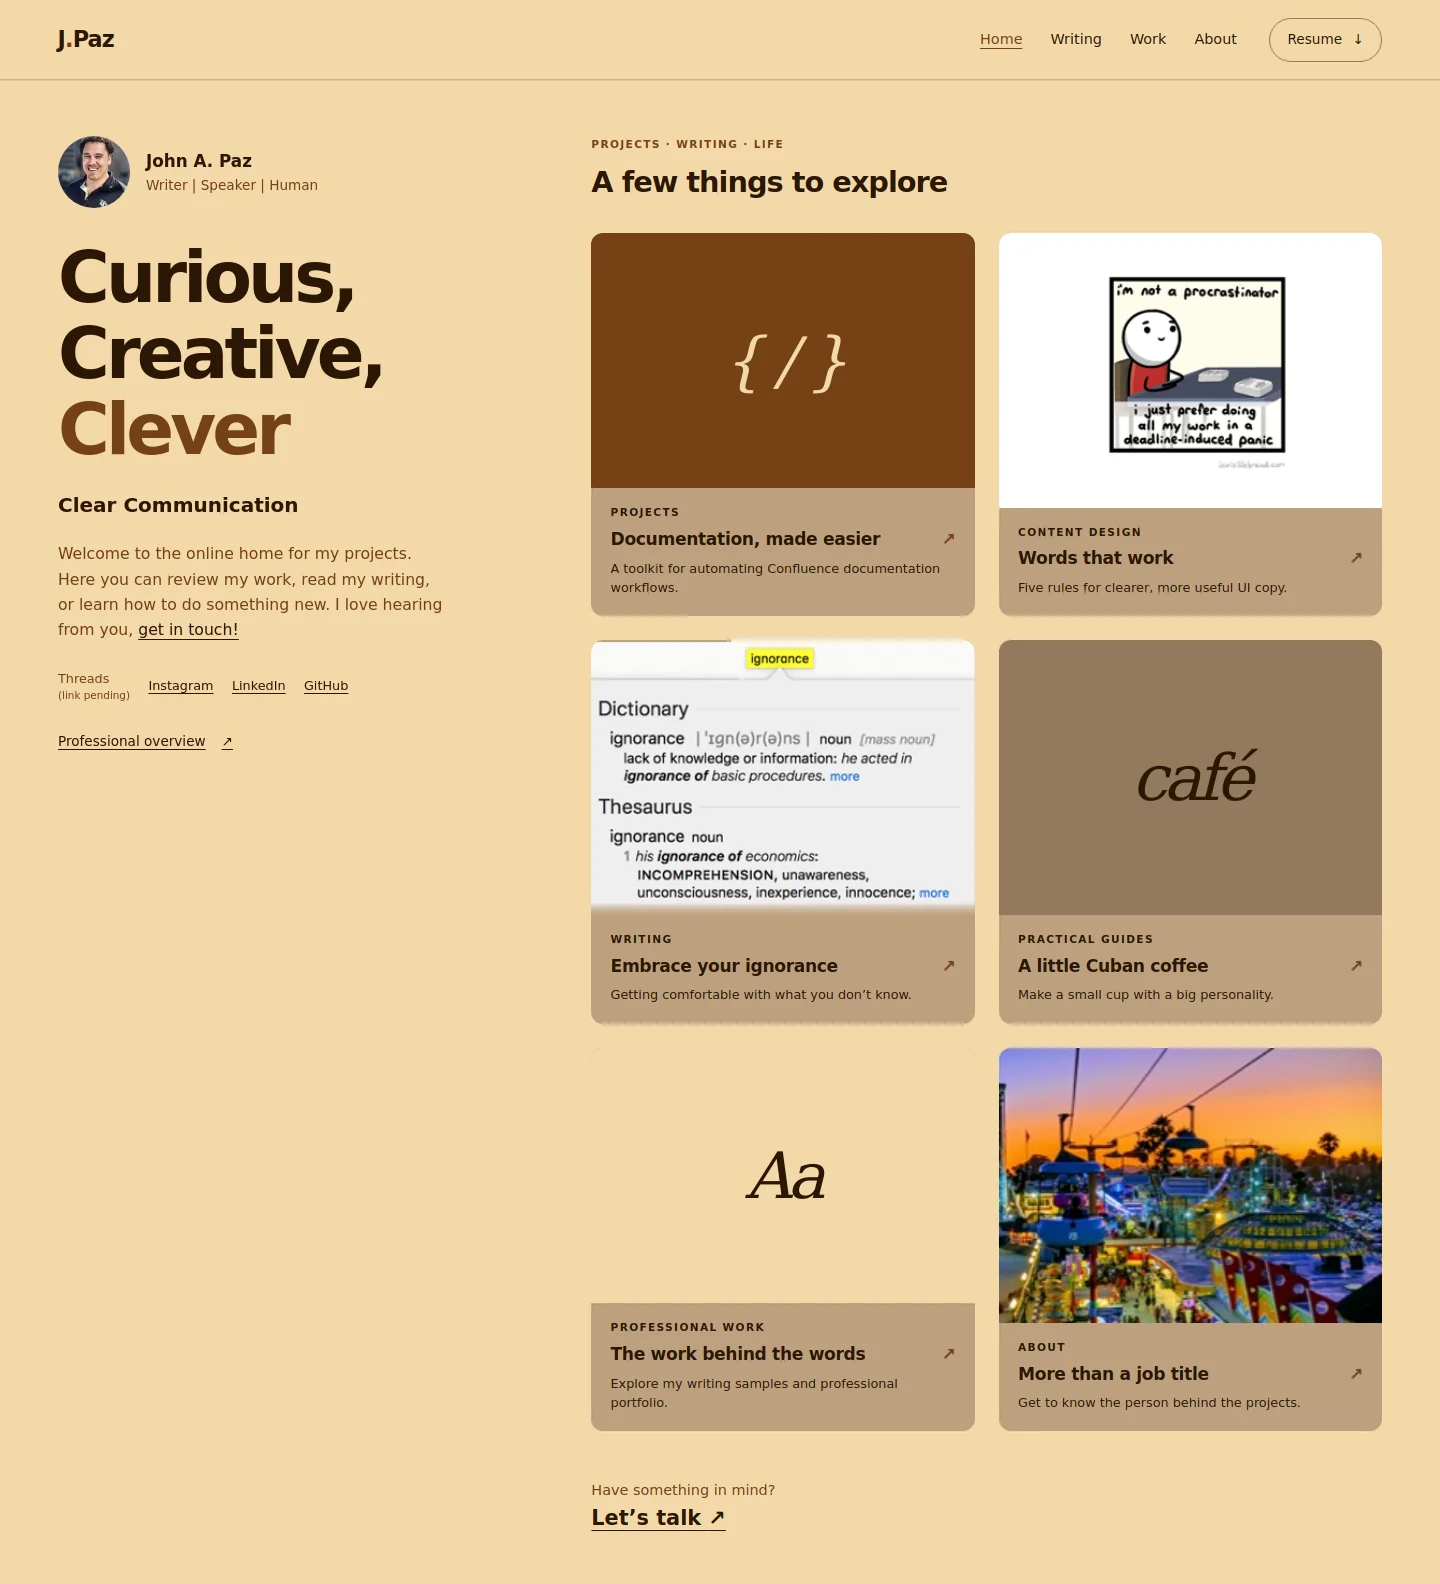
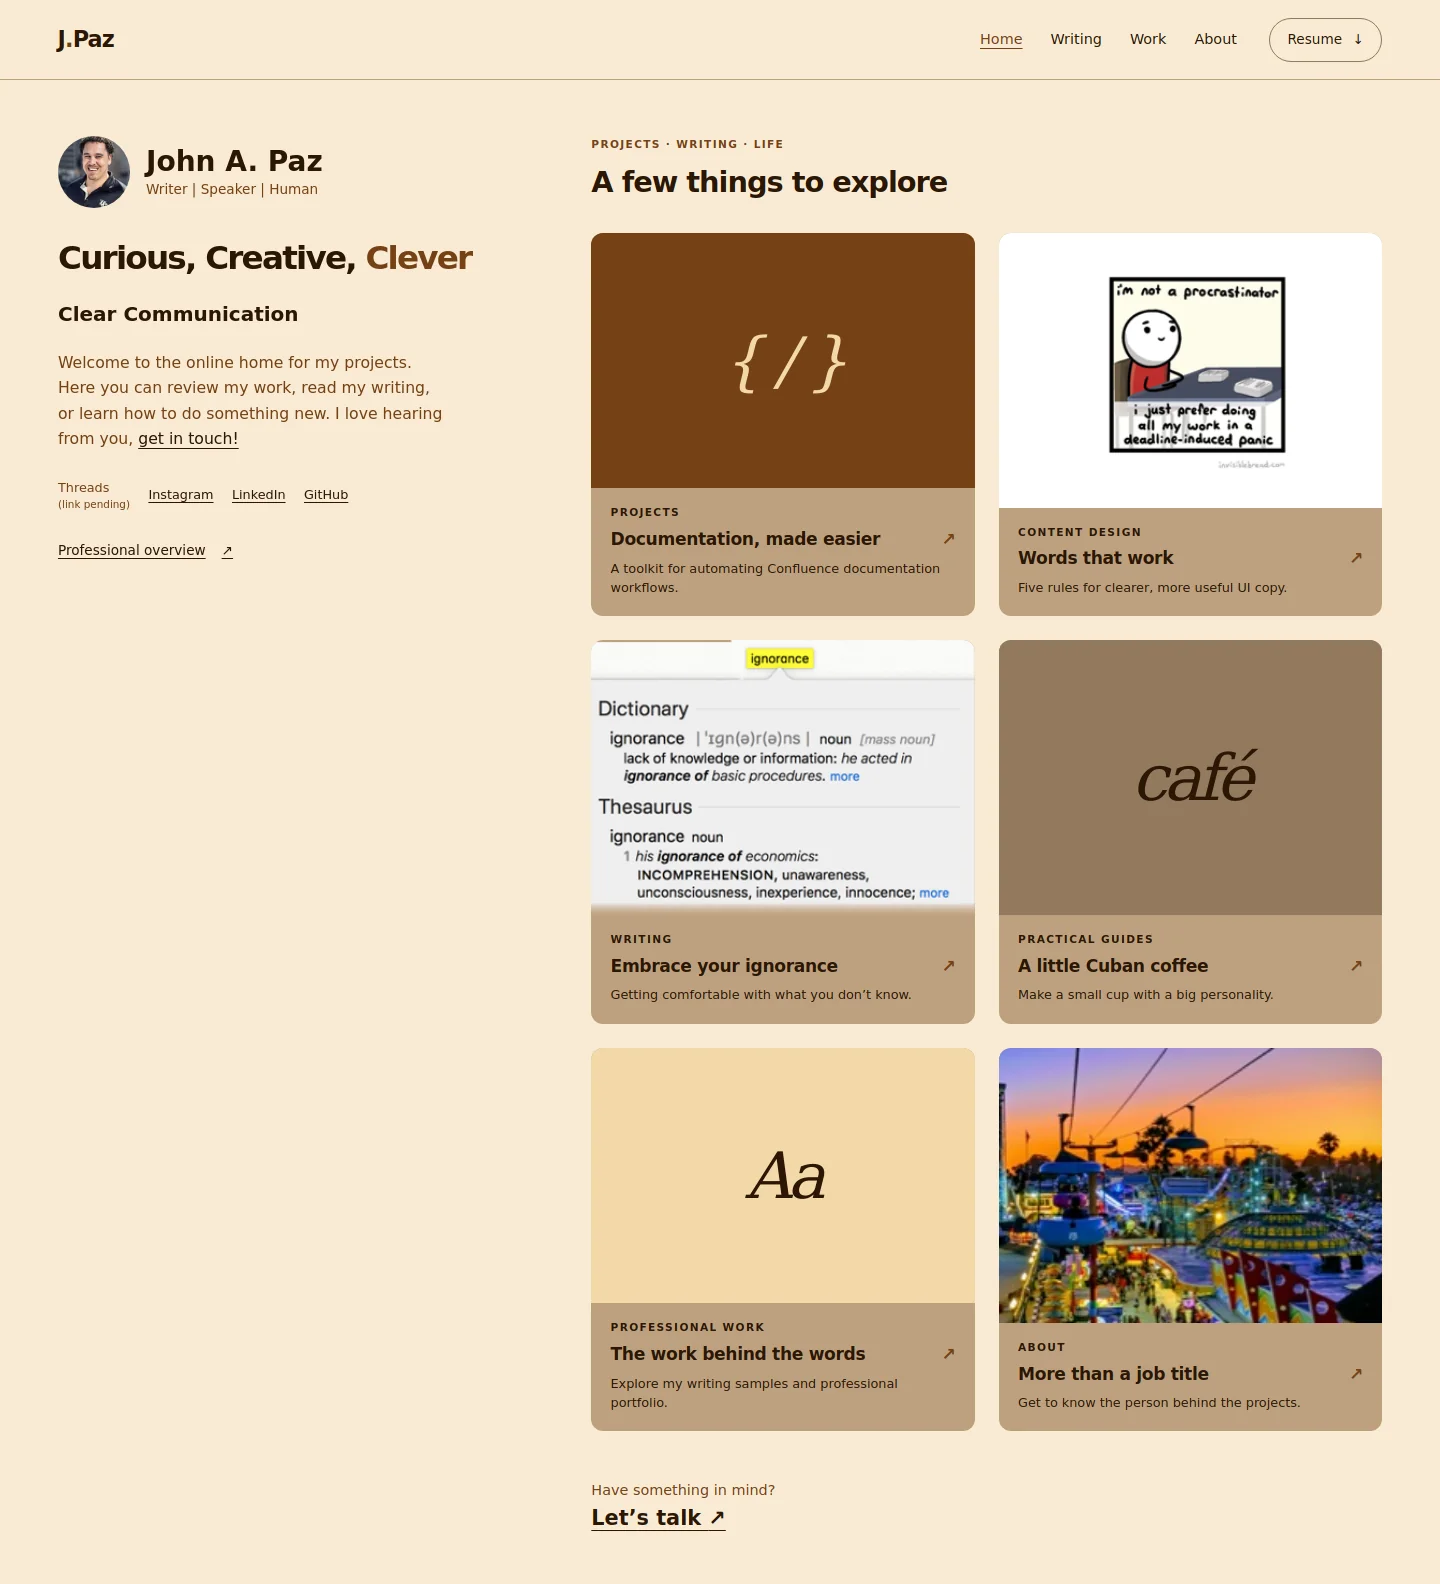
Refine homepage headline, desktop identity, and pale-sand background

diff --git a/_sass/_home-v2.scss b/_sass/_home-v2.scss
@@ -1,5 +1,5 @@
 // Homepage-only prototype tokens. Existing Editorial styles remain on other pages.
-$background: #F2D8A8;
+$background: #F8EBD3; // Lighter pale-sand tint; deliberately not white.
 $foreground: #2B1605;
 $muted: #754116;
 $accent: #754116;
@@ -23,13 +23,13 @@ body.v2-home { margin: 0; background: $background; color: $foreground; font: 16p
 .v2-home-link { font-weight: 750; font-size: 1.4rem; letter-spacing: -.04em; span { color: $accent; } }
 .v2-download { border: 1px solid #92795D; border-radius: 2rem; padding: .4rem 1.1rem; gap: .65rem; font-size: .85rem; }
 .v2-shell { display: grid; grid-template-columns: minmax(290px, .82fr) minmax(0, 1.45fr); gap: clamp(3rem, 6vw, 7rem); max-width: 1520px; margin: auto; padding: 3.5rem clamp(1.25rem, 4vw, 4rem) 2rem; align-items: start; }
-.v2-introduction { position: sticky; top: 7.5rem; }
+.v2-introduction { position: sticky; top: 7.5rem; container-type: inline-size; }
 .v2-identity { display: flex; gap: 1rem; align-items: center; margin-bottom: 2rem;
   img { width: 72px; height: 72px; border-radius: 50%; object-fit: cover; object-position: 50% 24%; }
 }
-.v2-name { font-weight: 700; font-size: 1.05rem; }
+.v2-name { font-weight: 700; font-size: 1.75rem; line-height: 1.25; }
 .v2-role { font-size: .85rem; color: $muted; }
-.v2-introduction h1 { font-size: clamp(3.25rem, 4.9vw, 5rem); line-height: 1.08; letter-spacing: -.055em; font-weight: 750; span { color: $accent; } }
+.v2-introduction h1 { font-size: clamp(1rem, 7.3cqw, 2.5rem); white-space: nowrap; line-height: 1.15; letter-spacing: -.055em; font-weight: 750; span { color: $accent; } }
 .v2-supporting { font-size: 1.25rem; margin-top: 1.3rem !important; font-weight: 600; }
 .v2-welcome { color: $muted; max-width: 39ch; margin-top: 1.25rem !important; font-size: .98rem; a { color: $foreground; white-space: nowrap; } }
 .v2-socials { display: flex; flex-wrap: wrap; gap: .2rem 1.15rem; list-style: none; padding: 0; margin: 1.4rem 0 .75rem; font-size: .8rem; a { display: inline-flex; align-items: center; min-height: 44px; } }
@@ -65,7 +65,6 @@ body.v2-home { margin: 0; background: $background; color: $foreground; font: 16p
 @media (max-width: 1000px) {
   .v2-shell { grid-template-columns: 1fr; gap: 3rem; max-width: 780px; padding-top: 2.5rem; }
   .v2-introduction { position: static; }
-  .v2-introduction h1 { font-size: clamp(3.5rem, 8vw, 5rem); }
   .v2-welcome { max-width: 55ch; }
 }
 @media (max-width: 600px) {
@@ -74,6 +73,7 @@ body.v2-home { margin: 0; background: $background; color: $foreground; font: 16p
   .v2-download { margin-left: auto; }
   .v2-shell { padding-top: 2rem; }
   .v2-identity { margin-bottom: 1.5rem; }
+  .v2-name { font-size: 1.2rem; }
   .v2-grid { grid-template-columns: 1fr; gap: 1.25rem; }
   .v2-card-text .v2-eyebrow { color: $foreground; }
 .v2-card-text { padding: 1.1rem 1.4rem 1.4rem; h3 { font-size: 1.25rem; } > p:last-child { font-size: .9rem; } }

diff --git a/_includes/v2-introduction.html b/_includes/v2-introduction.html
@@ -3,7 +3,7 @@
     <img src="{{ '/assets/images/John_smile.jpg' | relative_url }}" alt="" width="72" height="72" />
     <div><p class="v2-name">John A. Paz</p><p class="v2-role">Writer | Speaker | Human</p></div>
   </div>
-  <h1 id="introduction-title">Curious,<br />Creative,<br /><span>Clever</span></h1>
+  <h1 id="introduction-title">Curious, Creative, <span>Clever</span></h1>
   <p class="v2-supporting">Clear Communication</p>
   <p class="v2-welcome">Welcome to the online home for my projects. Here you can review my work, read my writing, or learn how to do something new. I love hearing from you, <a href="mailto:{{ site.email }}">get in touch!</a></p>
   <ul class="v2-socials" aria-label="Social profiles">

diff --git a/docs/v2-homepage-prototype.md b/docs/v2-homepage-prototype.md
@@ -74,3 +74,7 @@ Keep these cases in prototype and subsequent page reviews. Physical Z Fold6 test
 The wiki gained an accepted canyon color direction during this session. The reviewed prototype now applies that direction; the earlier dark/lime exploration was superseded before final review. Primary and secondary card text use deep espresso for legibility on warm stone. Final roles remain subject to review.
 
 Canyon text contrast checks: deep espresso on pale sand 12.43:1; rust on pale sand 6.01:1; deep espresso on warm stone 7.05:1. Card hover retains deep espresso text and adds an underline; rust on warm stone is limited to the decorative arrow/focus indicator (3.40:1), not small body text.
+
+## Review revision — September 30, 2026
+
+John requested a single-line “Curious, Creative, Clever,” a larger desktop identity name, and a lighter nonwhite background. Removed forced headline line breaks; size the headline against its introduction column to keep one line across desktop, mobile, and Fold layouts. Desktop identity name is now 1.75rem (mobile 1.2rem). The shared page/navigation background is a lighter pale-sand tint, `#F8EBD3`; original canyon accents remain. Staging publication is part of this review revision; verify its served build-info commit and HTTPS independently rather than treating a source commit or screenshot as deployment.
